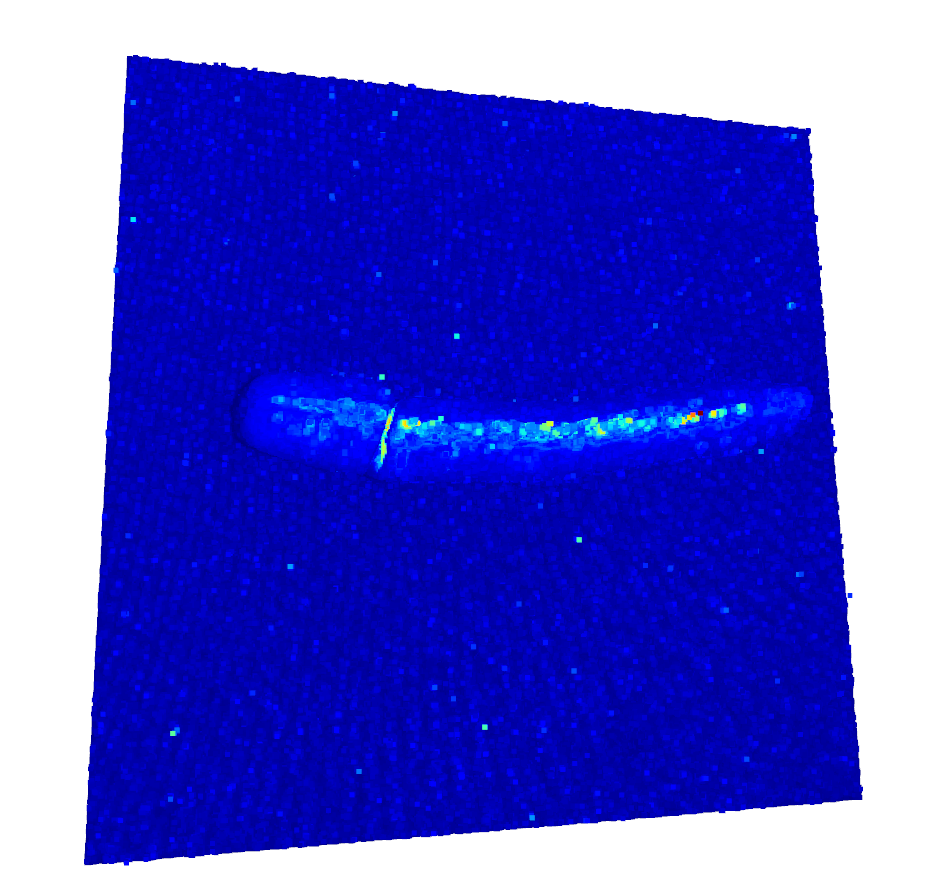
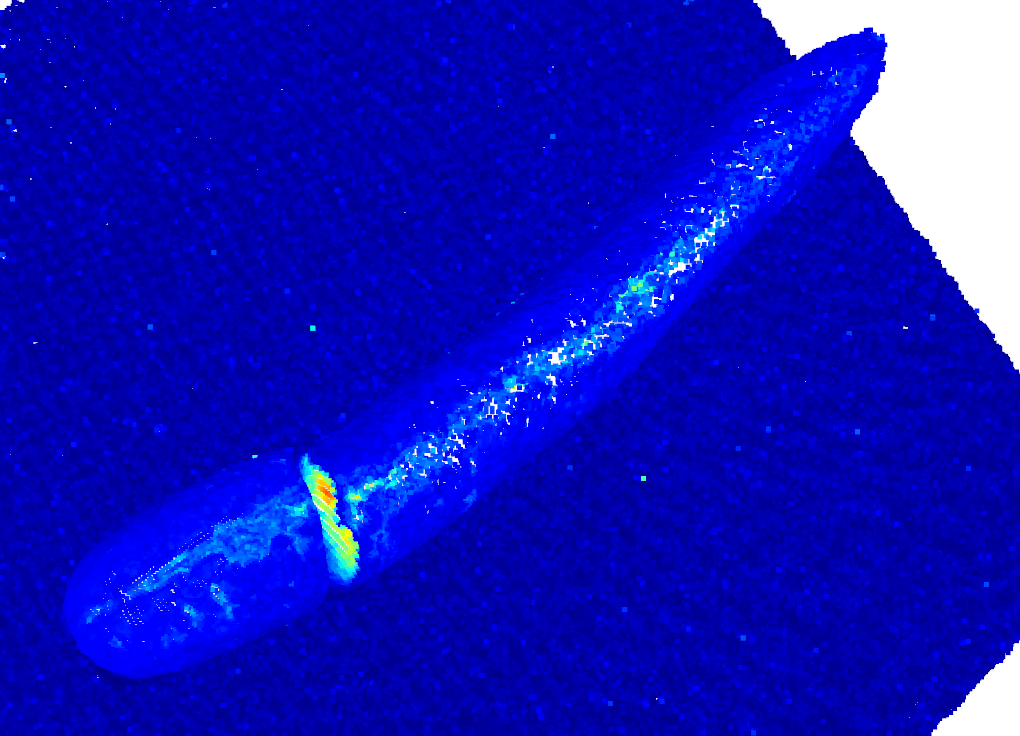
Fix: better vis

diff --git a/test.py b/test.py
@@ -48,7 +48,7 @@ def compute_anomaly_scores(student, teacher, dataloader, device):
 
             # Iterate over each index and assign its position as the value
             for i in range(262144):
-                reshaped_array[i] = [i% 512, i // 512, reshaped_point_cloud[i][2]*0.5]
+                reshaped_array[i] = [i% 512, i // 512, reshaped_point_cloud[i][0]-reshaped_point_cloud[i][1]]
             yield reshaped_array, reshaped_anomaly_scores
     return results
 

diff --git a/README.md b/README.md
@@ -10,6 +10,8 @@ After downloading the repo, complete the following:
 
 If you are having issues or if it is running slowly, run the systemtest script.
 
+Also note that I trained these models on a NVIDIA GeForce RTX 3050 Ti Laptop GPU, so if you make some minor alterations to the train code (number of epochs or fixed_size for example), you can likely train better models than those found here. The models linked below only went through 8 epochs each, and ideally you want 11+ for this kind of model.
+
 ## Test
 Run the test/visualize script with `py -3 -m test` or `py -3 -m test filenamehere.png`
 
@@ -29,4 +31,4 @@ Run the test/visualize script with `py -3 -m test` or `py -3 -m test filenameher
 
 ## Models
 
-Models uploaded to my drive, here: [anomaly-detection-3d-models](https://drive.google.com/drive/folders/1lfxbOMJv7Q0RX6g0ZDTO4yKyFxPAdj3O?usp=drive_link)
+Models uploaded to my drive, here: [anomaly-detection-3d-models](https://drive.google.com/drive/folders/1lfxbOMJv7Q0RX6g0ZDTO4yKyFxPAdj3O?usp=drive_link).
